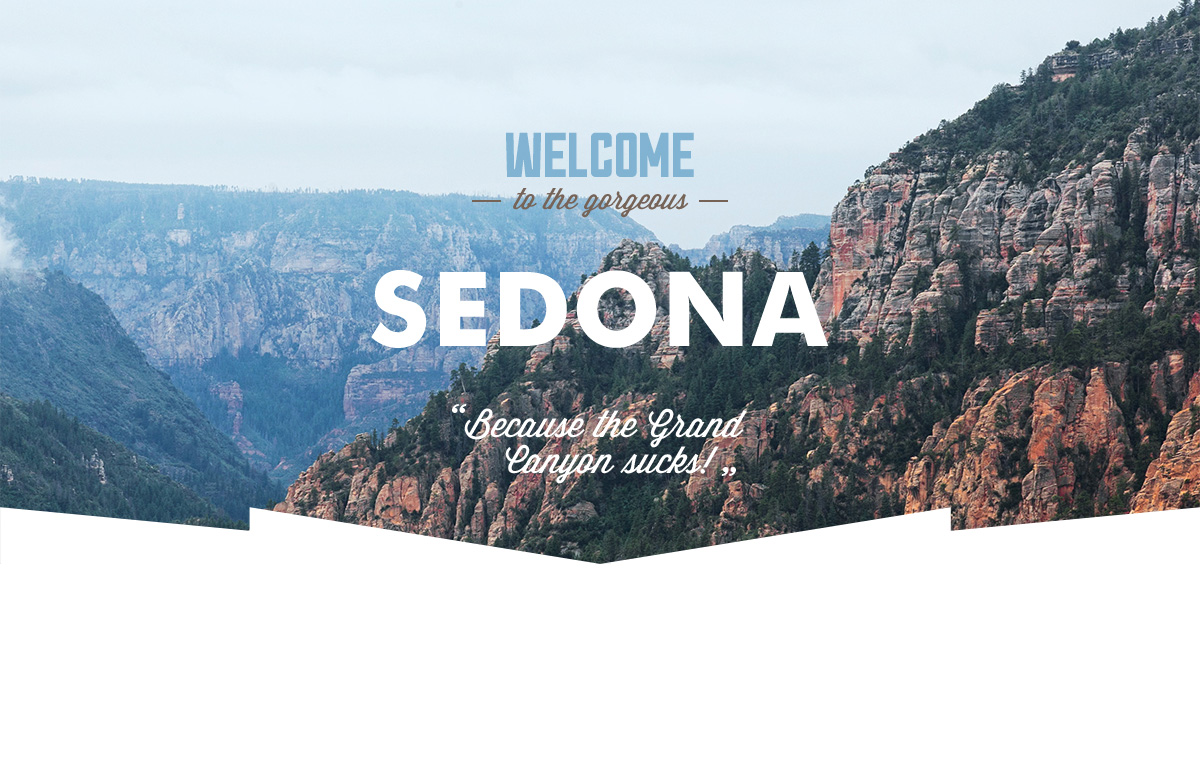
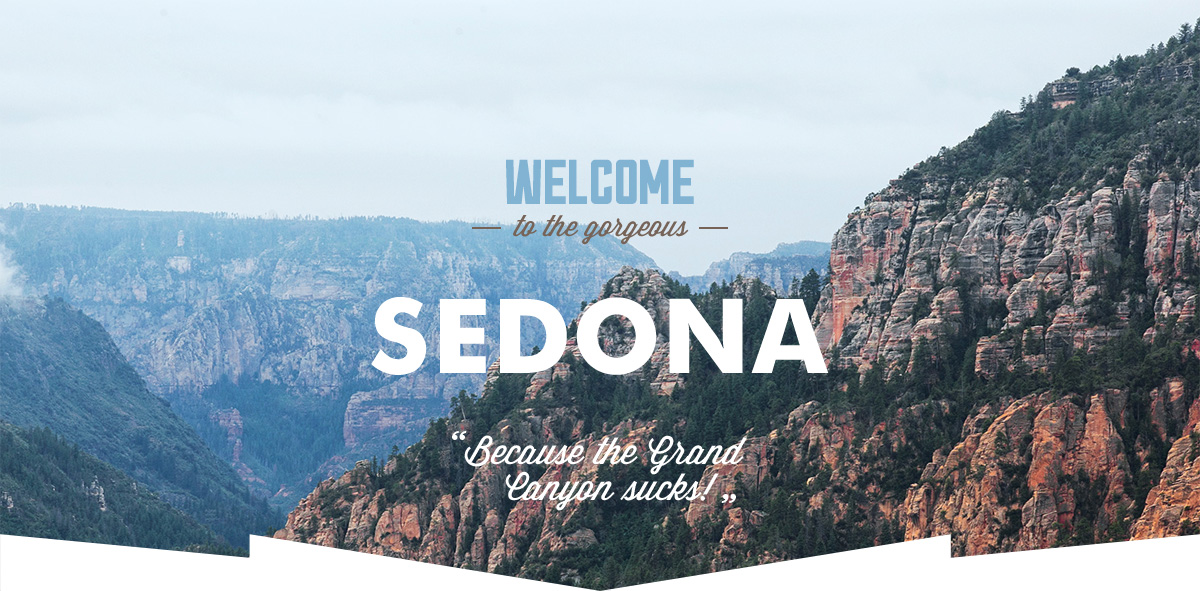
Начало сетки

diff --git a/css/style.css b/css/style.css
@@ -6,6 +6,13 @@ body {
   font-family: PT Sans;
 }
 
+html,
+body {
+  width: 1200px;
+  margin: 0;
+  padding: 0;
+}
+
 h2.title-booking {
   font-size: 30px;
   line-height: 24px;
@@ -35,3 +42,19 @@ h2.catalog-filters-title {
   color: #ffffff;
   font-weight: bold;
 }
+
+.main-navigation li {
+  display: inline;
+}
+
+.main-navigation {
+  width: 1200px;
+  min-height: 56px;  
+}
+
+.index-logo {
+  width: 1200px; height: 780px;
+  margin-right: auto;
+  margin-left: auto;
+}
+

diff --git a/index.html b/index.html
@@ -32,7 +32,7 @@
     <main class="container">
       <div class="index-logo">
         <a href="index.html">
-          <img src="img/main-photo.jpg" width="1200" height="780" alt="Седона">
+          <img src="img/main-photo.jpg" alt="Седона">
         </a>
       </div>
       <div class="index-main-information">
